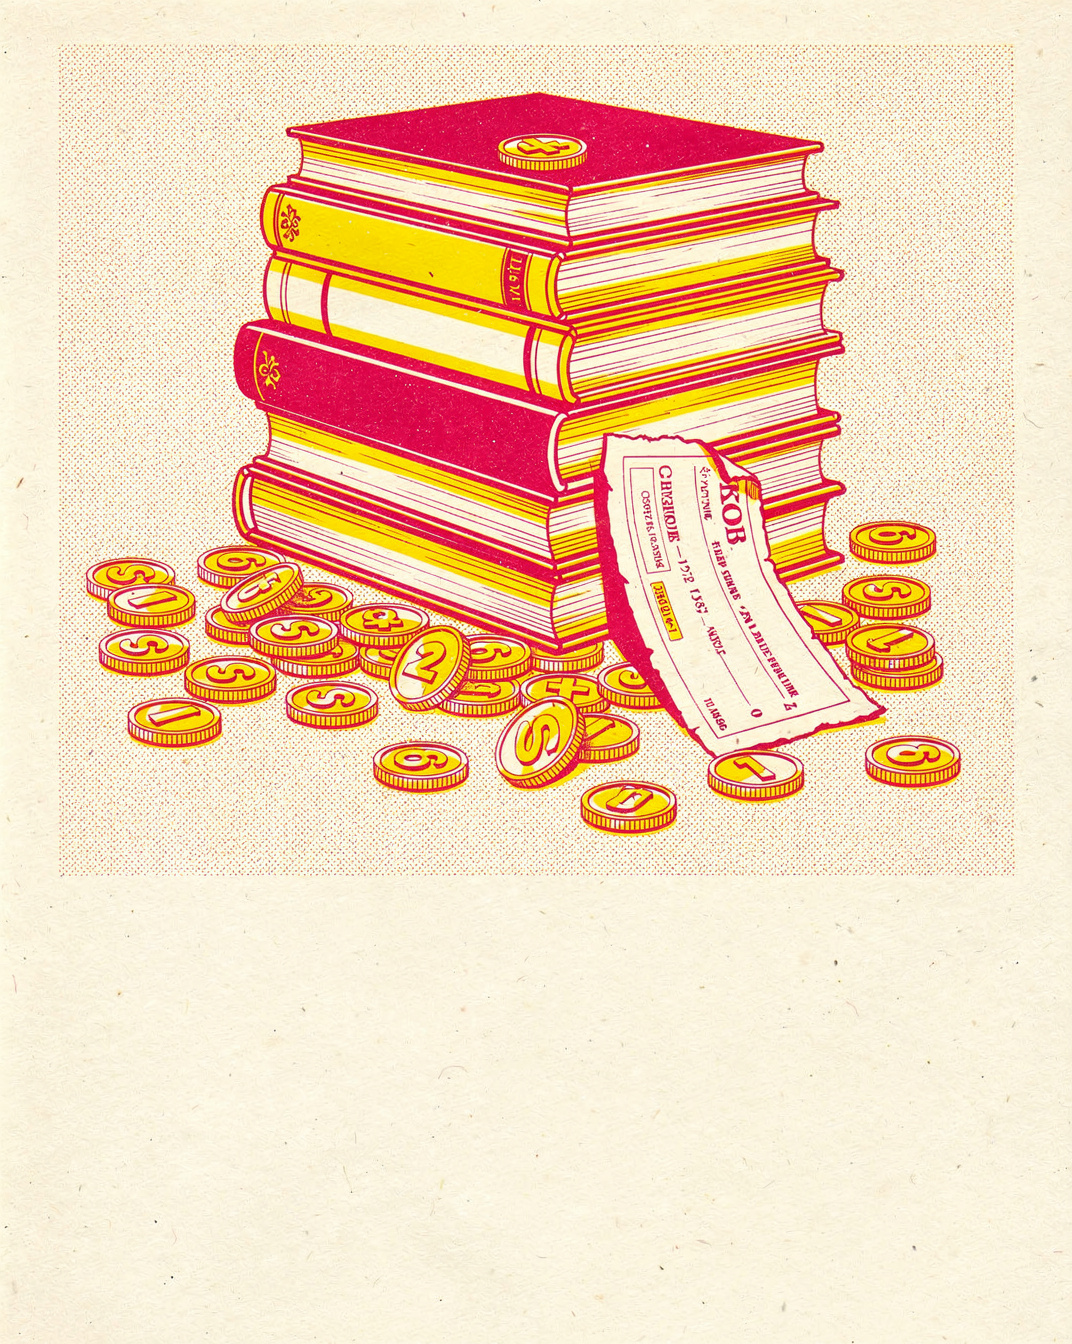
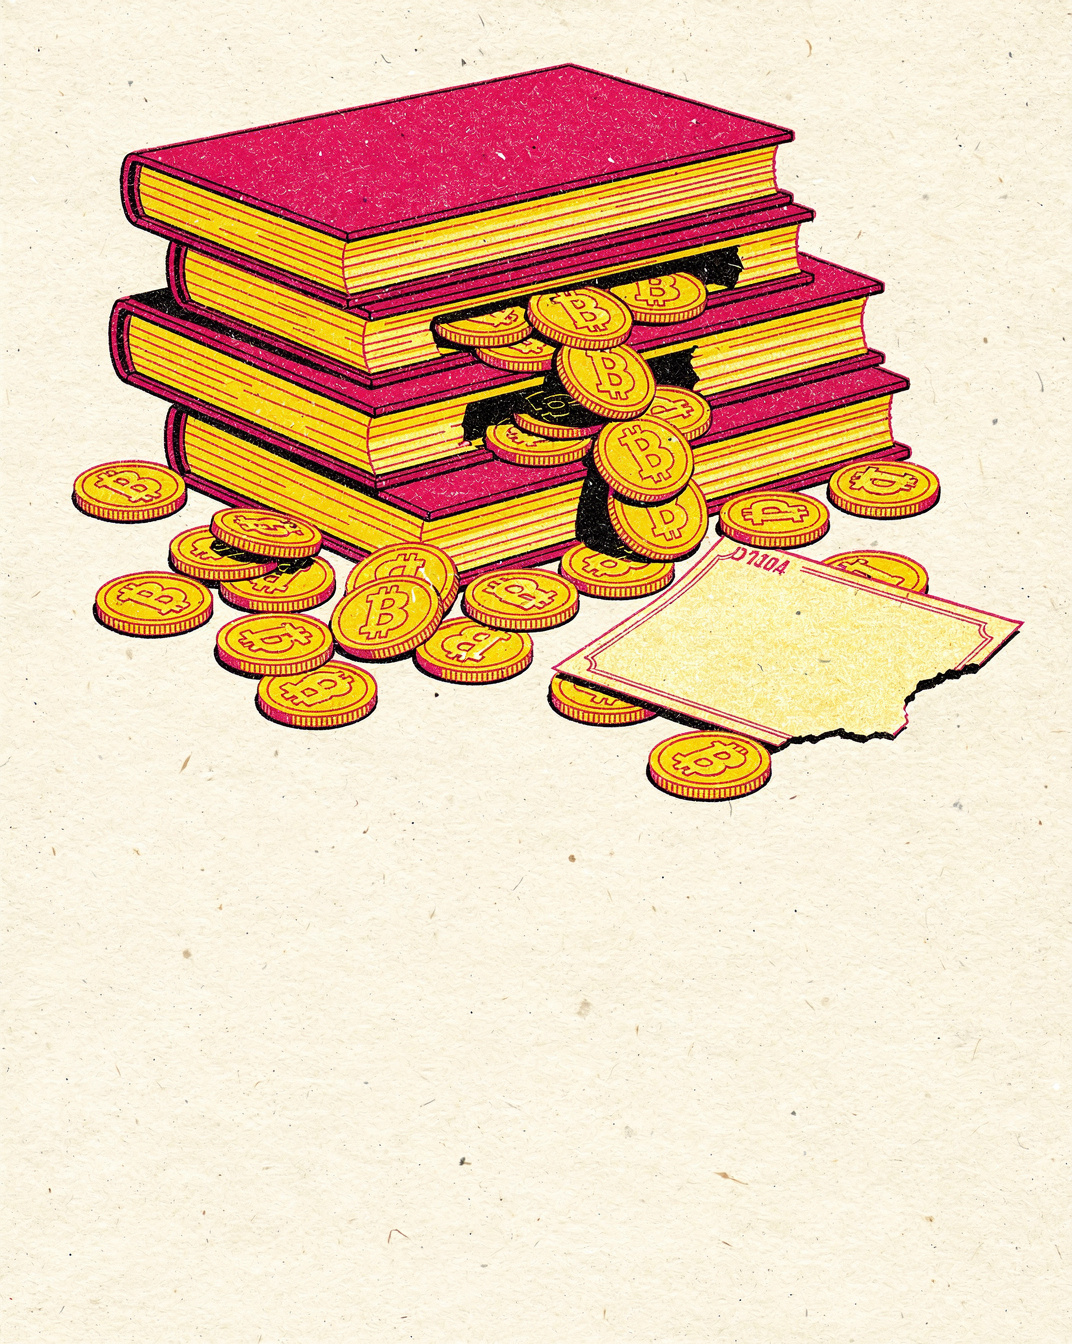
folio-estilos: los quince estilos generados, prompts y hoja de contactos
Cinco estilos por tres temas sin superficies de texto (opción A), Flux 2 Pro
a 1080×1350; prompts.json con prompt, parámetros y semilla; hoja de contactos
por estilo y feed alterno, con el tercio inferior oscurecido por defecto.

Claude-Session: https://claude.ai/code/session_013Y35cVtXAij5wEyyESjL5L

diff --git a/folio-estilos/hoja-contactos.html b/folio-estilos/hoja-contactos.html
@@ -1,0 +1,78 @@
+<!doctype html>
+<html lang="es"><head><meta charset="utf-8"><meta name="viewport" content="width=device-width,initial-scale=1">
+<title>Estilos de Folio</title>
+<link rel="preconnect" href="https://fonts.googleapis.com">
+<link href="https://fonts.googleapis.com/css2?family=Alexandria:wght@700&family=EB+Garamond:ital@1&display=swap" rel="stylesheet">
+<style>
+:root{--magenta:#D6246E;--amarillo:#F2E14C;--crema:#F3EFE6;--tinta:#141012;--suave:#6b6466;--fondo:#fff}
+@media (prefers-color-scheme: dark){:root:not([data-theme="light"]){--fondo:#141012;--tinta:#F3EFE6;--suave:#a39c9e}}
+:root[data-theme="dark"]{--fondo:#141012;--tinta:#F3EFE6;--suave:#a39c9e}
+*{box-sizing:border-box} body{margin:0;background:var(--fondo);color:var(--tinta);font:15px/1.45 system-ui,sans-serif}
+main{max-width:960px;margin:0 auto;padding:24px 16px 64px}
+h1{font:700 28px/1.1 Alexandria,sans-serif;letter-spacing:-.04em;margin:0 0 4px}
+h2{font:700 20px/1.2 Alexandria,sans-serif;letter-spacing:-.03em;margin:36px 0 8px}
+h3{font:600 12px/1 ui-monospace,monospace;letter-spacing:.14em;text-transform:uppercase;color:var(--magenta);margin:22px 0 8px}
+p.n{color:var(--suave);margin:0 0 12px;max-width:62ch}
+.controles{display:flex;flex-wrap:wrap;gap:8px 16px;margin:12px 0 4px;font-size:14px}
+.vistas button{border:1px solid var(--suave);background:none;color:var(--tinta);border-radius:999px;padding:6px 14px;cursor:pointer;font:inherit}
+.vistas button[aria-pressed="true"]{background:var(--tinta);color:var(--fondo);border-color:var(--tinta)}
+.rejilla{display:grid;grid-template-columns:repeat(3,1fr);gap:4px}
+.t{margin:0} .img{position:relative;aspect-ratio:4/5;overflow:hidden;background:#ddd}
+.img img{width:100%;height:100%;object-fit:cover;display:block}
+.titular{position:absolute;left:0;right:0;bottom:0;padding:9% 7% 8%;container-type:inline-size}
+.titular span{display:block;color:#fff;font:700 9.2cqw/1.02 Alexandria,sans-serif;letter-spacing:-.05em}
+.titular em{font:italic 400 10.4cqw/1 "EB Garamond",serif;letter-spacing:0;background:linear-gradient(transparent 62%,var(--amarillo) 62%);color:#fff;padding:0 .08em}
+body.sombra .titular{background:linear-gradient(transparent,rgba(20,16,18,.85) 55%)}
+figcaption{font:11px/1.3 ui-monospace,monospace;color:var(--suave);padding:5px 2px 10px}
+@media (max-width:520px){.rejilla{gap:2px} figcaption{font-size:10px}}
+.titular em{white-space:nowrap}</style></head>
+<body class="sombra"><main>
+<h1>Estilos de ilustración · Folio</h1>
+<p class="n">Cinco estilos × tres temas, Flux 2 Pro a 1080×1350, paleta cerrada (magenta, amarillo, negro y crema). Sobre cada imagen, un titular de prueba en blanco con la palabra en cursiva sobre marcador amarillo, en el tercio inferior.</p>
+<div class="controles">
+<div class="vistas" role="group" aria-label="Vista"><button id="b-perfil" aria-pressed="true">Por estilo</button> <button id="b-feed" aria-pressed="false">Feed alterno</button></div>
+<label><input type="checkbox" id="sombra" checked> Oscurecer el tercio inferior</label>
+</div>
+<section id="perfil"><h2>Por estilo</h2><p class="n">Filas: estilo. Columnas: Anthropic, Biblia de 1631, Goncourt.</p><h3>Risografía</h3><div class="rejilla"><figure class="t"><div class="img"><img src="risografia_anthropic.png" alt="Risografía, anthropic" loading="lazy">
+<div class="titular"><span>Las editoriales se quedan el <em>95 %</em> del acuerdo</span></div></div><figcaption>Risografía</figcaption></figure><figure class="t"><div class="img"><img src="risografia_biblia1631.png" alt="Risografía, biblia1631" loading="lazy">
+<div class="titular"><span>La Biblia que olvidó <em>un no</em> </span></div></div><figcaption>Risografía</figcaption></figure><figure class="t"><div class="img"><img src="risografia_goncourt.png" alt="Risografía, goncourt" loading="lazy">
+<div class="titular"><span>Cien años fallando en el mismo <em>restaurante</em> </span></div></div><figcaption>Risografía</figcaption></figure></div>
+<h3>Grabado</h3><div class="rejilla"><figure class="t"><div class="img"><img src="grabado_anthropic.png" alt="Grabado, anthropic" loading="lazy">
+<div class="titular"><span>Las editoriales se quedan el <em>95 %</em> del acuerdo</span></div></div><figcaption>Grabado</figcaption></figure><figure class="t"><div class="img"><img src="grabado_biblia1631.png" alt="Grabado, biblia1631" loading="lazy">
+<div class="titular"><span>La Biblia que olvidó <em>un no</em> </span></div></div><figcaption>Grabado</figcaption></figure><figure class="t"><div class="img"><img src="grabado_goncourt.png" alt="Grabado, goncourt" loading="lazy">
+<div class="titular"><span>Cien años fallando en el mismo <em>restaurante</em> </span></div></div><figcaption>Grabado</figcaption></figure></div>
+<h3>Fotomontaje</h3><div class="rejilla"><figure class="t"><div class="img"><img src="fotomontaje_anthropic.png" alt="Fotomontaje, anthropic" loading="lazy">
+<div class="titular"><span>Las editoriales se quedan el <em>95 %</em> del acuerdo</span></div></div><figcaption>Fotomontaje</figcaption></figure><figure class="t"><div class="img"><img src="fotomontaje_biblia1631.png" alt="Fotomontaje, biblia1631" loading="lazy">
+<div class="titular"><span>La Biblia que olvidó <em>un no</em> </span></div></div><figcaption>Fotomontaje</figcaption></figure><figure class="t"><div class="img"><img src="fotomontaje_goncourt.png" alt="Fotomontaje, goncourt" loading="lazy">
+<div class="titular"><span>Cien años fallando en el mismo <em>restaurante</em> </span></div></div><figcaption>Fotomontaje</figcaption></figure></div>
+<h3>Objeto</h3><div class="rejilla"><figure class="t"><div class="img"><img src="objeto_anthropic.png" alt="Objeto, anthropic" loading="lazy">
+<div class="titular"><span>Las editoriales se quedan el <em>95 %</em> del acuerdo</span></div></div><figcaption>Objeto</figcaption></figure><figure class="t"><div class="img"><img src="objeto_biblia1631.png" alt="Objeto, biblia1631" loading="lazy">
+<div class="titular"><span>La Biblia que olvidó <em>un no</em> </span></div></div><figcaption>Objeto</figcaption></figure><figure class="t"><div class="img"><img src="objeto_goncourt.png" alt="Objeto, goncourt" loading="lazy">
+<div class="titular"><span>Cien años fallando en el mismo <em>restaurante</em> </span></div></div><figcaption>Objeto</figcaption></figure></div>
+<h3>Gouache</h3><div class="rejilla"><figure class="t"><div class="img"><img src="gouache_anthropic.png" alt="Gouache, anthropic" loading="lazy">
+<div class="titular"><span>Las editoriales se quedan el <em>95 %</em> del acuerdo</span></div></div><figcaption>Gouache</figcaption></figure><figure class="t"><div class="img"><img src="gouache_biblia1631.png" alt="Gouache, biblia1631" loading="lazy">
+<div class="titular"><span>La Biblia que olvidó <em>un no</em> </span></div></div><figcaption>Gouache</figcaption></figure><figure class="t"><div class="img"><img src="gouache_goncourt.png" alt="Gouache, goncourt" loading="lazy">
+<div class="titular"><span>Cien años fallando en el mismo <em>restaurante</em> </span></div></div><figcaption>Gouache</figcaption></figure></div></section>
+<section id="feed" hidden><h2>Feed alterno</h2><p class="n">Una de cada estilo seguida, rotando los temas: así se vería el ritmo del perfil.</p><div class="rejilla"><figure class="t"><div class="img"><img src="risografia_anthropic.png" alt="Risografía, anthropic" loading="lazy">
+<div class="titular"><span>Las editoriales se quedan el <em>95 %</em> del acuerdo</span></div></div><figcaption>Risografía</figcaption></figure><figure class="t"><div class="img"><img src="grabado_biblia1631.png" alt="Grabado, biblia1631" loading="lazy">
+<div class="titular"><span>La Biblia que olvidó <em>un no</em></span></div></div><figcaption>Grabado</figcaption></figure><figure class="t"><div class="img"><img src="fotomontaje_goncourt.png" alt="Fotomontaje, goncourt" loading="lazy">
+<div class="titular"><span>Cien años fallando en el mismo <em>restaurante</em></span></div></div><figcaption>Fotomontaje</figcaption></figure><figure class="t"><div class="img"><img src="objeto_anthropic.png" alt="Objeto, anthropic" loading="lazy">
+<div class="titular"><span>Las editoriales se quedan el <em>95 %</em> del acuerdo</span></div></div><figcaption>Objeto</figcaption></figure><figure class="t"><div class="img"><img src="gouache_biblia1631.png" alt="Gouache, biblia1631" loading="lazy">
+<div class="titular"><span>La Biblia que olvidó <em>un no</em></span></div></div><figcaption>Gouache</figcaption></figure><figure class="t"><div class="img"><img src="risografia_goncourt.png" alt="Risografía, goncourt" loading="lazy">
+<div class="titular"><span>Cien años fallando en el mismo <em>restaurante</em></span></div></div><figcaption>Risografía</figcaption></figure><figure class="t"><div class="img"><img src="grabado_anthropic.png" alt="Grabado, anthropic" loading="lazy">
+<div class="titular"><span>Las editoriales se quedan el <em>95 %</em> del acuerdo</span></div></div><figcaption>Grabado</figcaption></figure><figure class="t"><div class="img"><img src="fotomontaje_biblia1631.png" alt="Fotomontaje, biblia1631" loading="lazy">
+<div class="titular"><span>La Biblia que olvidó <em>un no</em></span></div></div><figcaption>Fotomontaje</figcaption></figure><figure class="t"><div class="img"><img src="objeto_goncourt.png" alt="Objeto, goncourt" loading="lazy">
+<div class="titular"><span>Cien años fallando en el mismo <em>restaurante</em></span></div></div><figcaption>Objeto</figcaption></figure><figure class="t"><div class="img"><img src="gouache_anthropic.png" alt="Gouache, anthropic" loading="lazy">
+<div class="titular"><span>Las editoriales se quedan el <em>95 %</em> del acuerdo</span></div></div><figcaption>Gouache</figcaption></figure><figure class="t"><div class="img"><img src="risografia_biblia1631.png" alt="Risografía, biblia1631" loading="lazy">
+<div class="titular"><span>La Biblia que olvidó <em>un no</em></span></div></div><figcaption>Risografía</figcaption></figure><figure class="t"><div class="img"><img src="grabado_goncourt.png" alt="Grabado, goncourt" loading="lazy">
+<div class="titular"><span>Cien años fallando en el mismo <em>restaurante</em></span></div></div><figcaption>Grabado</figcaption></figure><figure class="t"><div class="img"><img src="fotomontaje_anthropic.png" alt="Fotomontaje, anthropic" loading="lazy">
+<div class="titular"><span>Las editoriales se quedan el <em>95 %</em> del acuerdo</span></div></div><figcaption>Fotomontaje</figcaption></figure><figure class="t"><div class="img"><img src="objeto_biblia1631.png" alt="Objeto, biblia1631" loading="lazy">
+<div class="titular"><span>La Biblia que olvidó <em>un no</em></span></div></div><figcaption>Objeto</figcaption></figure><figure class="t"><div class="img"><img src="gouache_goncourt.png" alt="Gouache, goncourt" loading="lazy">
+<div class="titular"><span>Cien años fallando en el mismo <em>restaurante</em></span></div></div><figcaption>Gouache</figcaption></figure></div></section>
+</main>
+<script>
+const bp=document.getElementById("b-perfil"),bf=document.getElementById("b-feed"),sp=document.getElementById("perfil"),sf=document.getElementById("feed");
+function ver(f){sp.hidden=f;sf.hidden=!f;bp.setAttribute("aria-pressed",String(!f));bf.setAttribute("aria-pressed",String(f));}
+bp.onclick=()=>ver(false);bf.onclick=()=>ver(true);
+document.getElementById("sombra").onchange=e=>document.body.classList.toggle("sombra",e.target.checked);
+</script></body></html>

diff --git a/folio-estilos/generar.py b/folio-estilos/generar.py
@@ -33,10 +33,12 @@ COMUN = "editorial magazine cover image, negative space in lower third, no text,
 # La paleta cerrada de la marca y lo prohibido, iguales en todos
 PALETA = ("strict colour palette: magenta #D6246E, yellow #F2E14C, black and cream #F3EFE6, no other colours; "
           "no 3D render, no glossy CGI, no cartoon characters, no recognizable real people")
+# Opción A (4/11): los mismos temas sin superficies que inviten a escribir (cheque, monedas, páginas, letrero),
+# porque en la prueba el cheque y las monedas salieron con letras y números inventados
 TEMAS = {
-    "anthropic": "stack of books with gold coins spilling and a torn cheque",
-    "biblia1631": "antique open Bible on a printing press, one missing word",
-    "goncourt": "Parisian restaurant facade at night with two laurel wreaths facing each other",
+    "anthropic": "stack of books with plain unmarked gold coins spilling out and a blank torn cheque with no writing",
+    "biblia1631": "antique open Bible with blank pages on a wooden printing press, one empty gap where a word is missing",
+    "goncourt": "Parisian restaurant facade at night with blank awning and no sign, two laurel wreaths facing each other",
 }
 
 
@@ -93,9 +95,17 @@ def main() -> None:
         pares = [(e, t) for e in ESTILOS for t in TEMAS]
     else:
         pares = [tuple(a.split(":")) for a in sys.argv[1:]]
-    for e, t in pares:
-        generar(e, t, clave, registro)
-        ruta.write_text(json.dumps(registro, ensure_ascii=False, indent=1))
+    # De tres en tres, para no tardar un cuarto de hora (sin reintentos: un fallo se informa y se sigue)
+    import threading
+    from concurrent.futures import ThreadPoolExecutor
+    cerrojo = threading.Lock()
+
+    def una(par):
+        generar(par[0], par[1], clave, registro)
+        with cerrojo:
+            ruta.write_text(json.dumps(registro, ensure_ascii=False, indent=1))
+    with ThreadPoolExecutor(max_workers=3) as pool:
+        list(pool.map(una, pares))
 
 
 if __name__ == "__main__":
